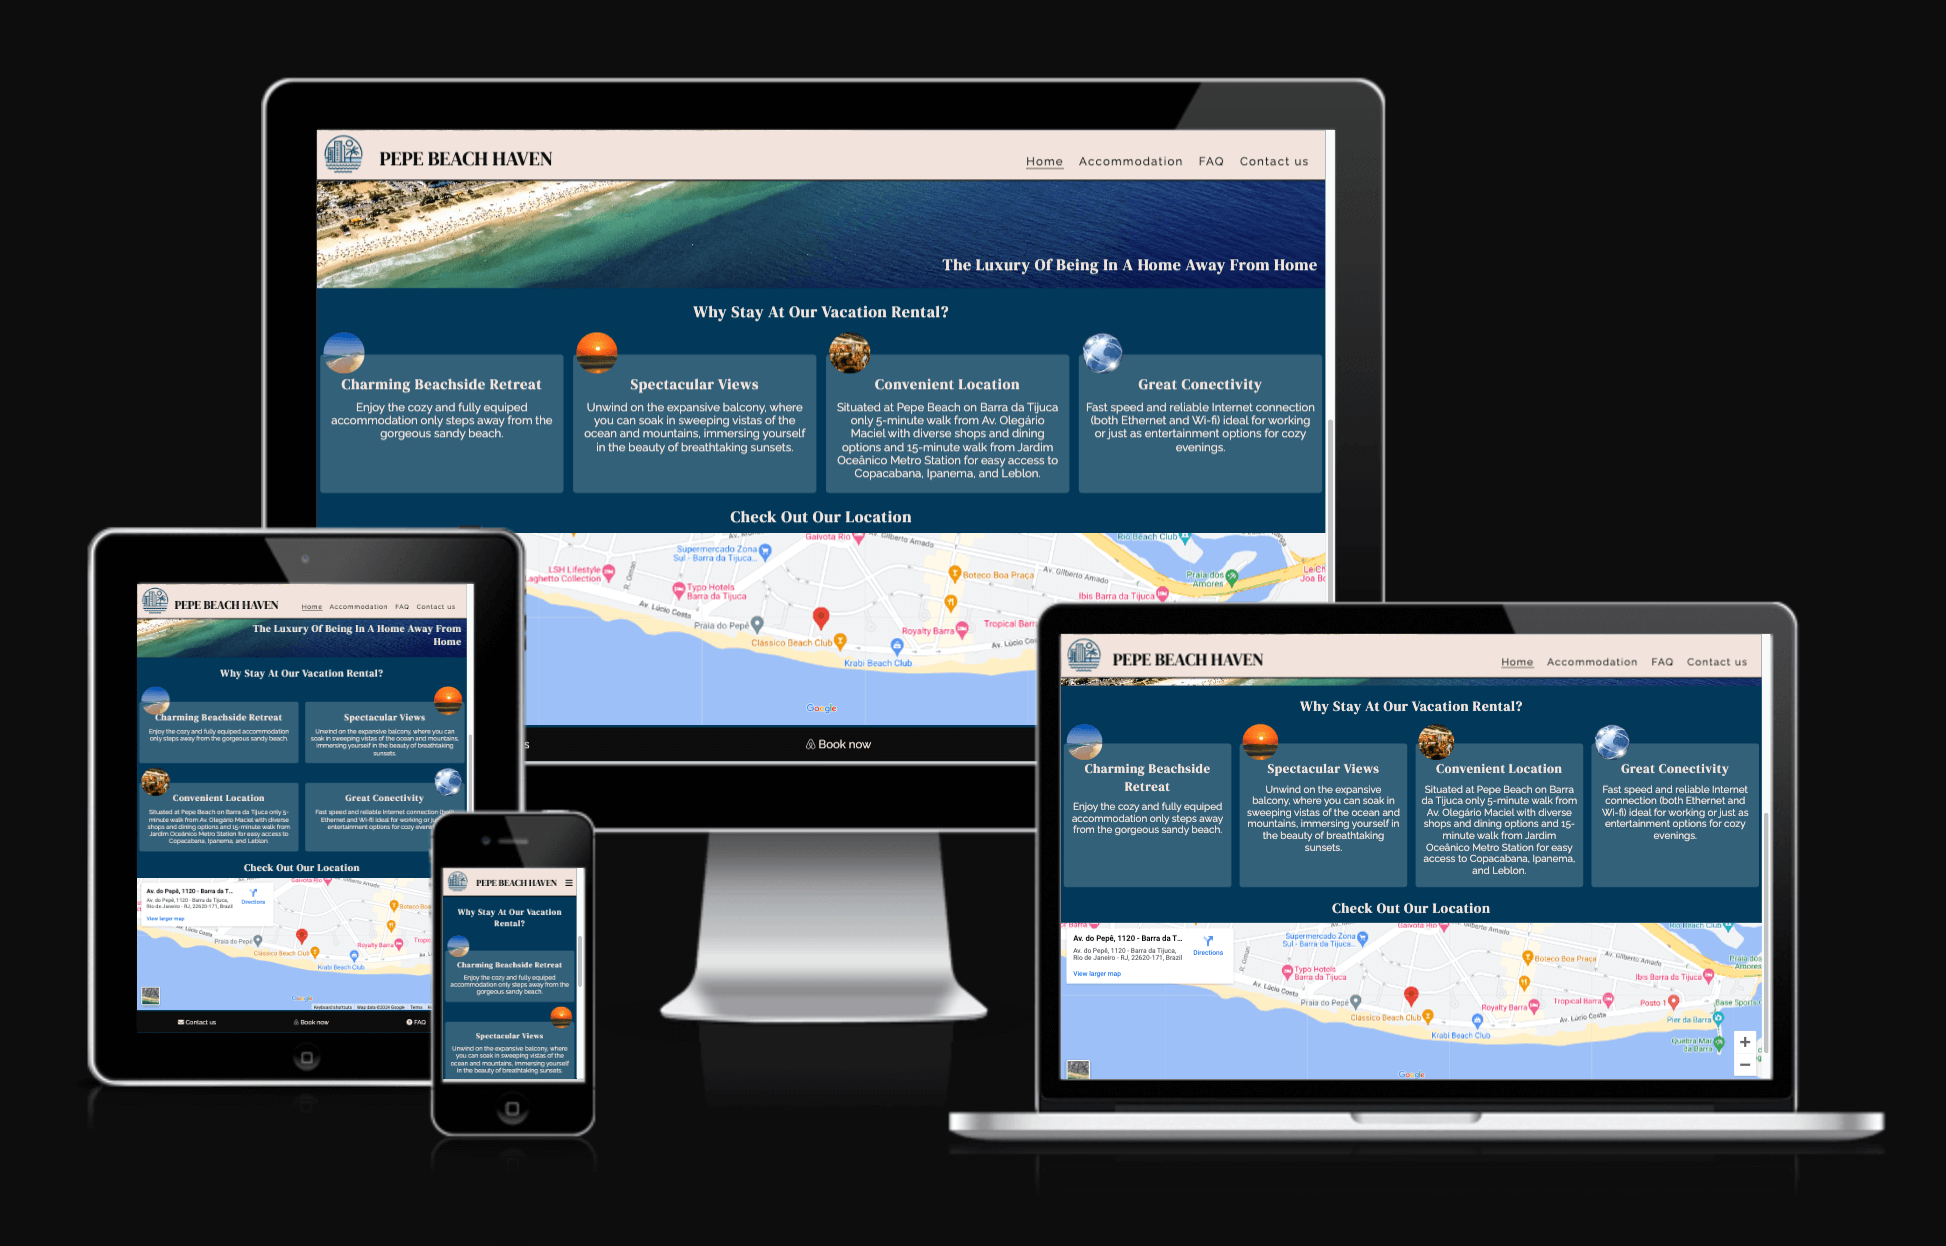
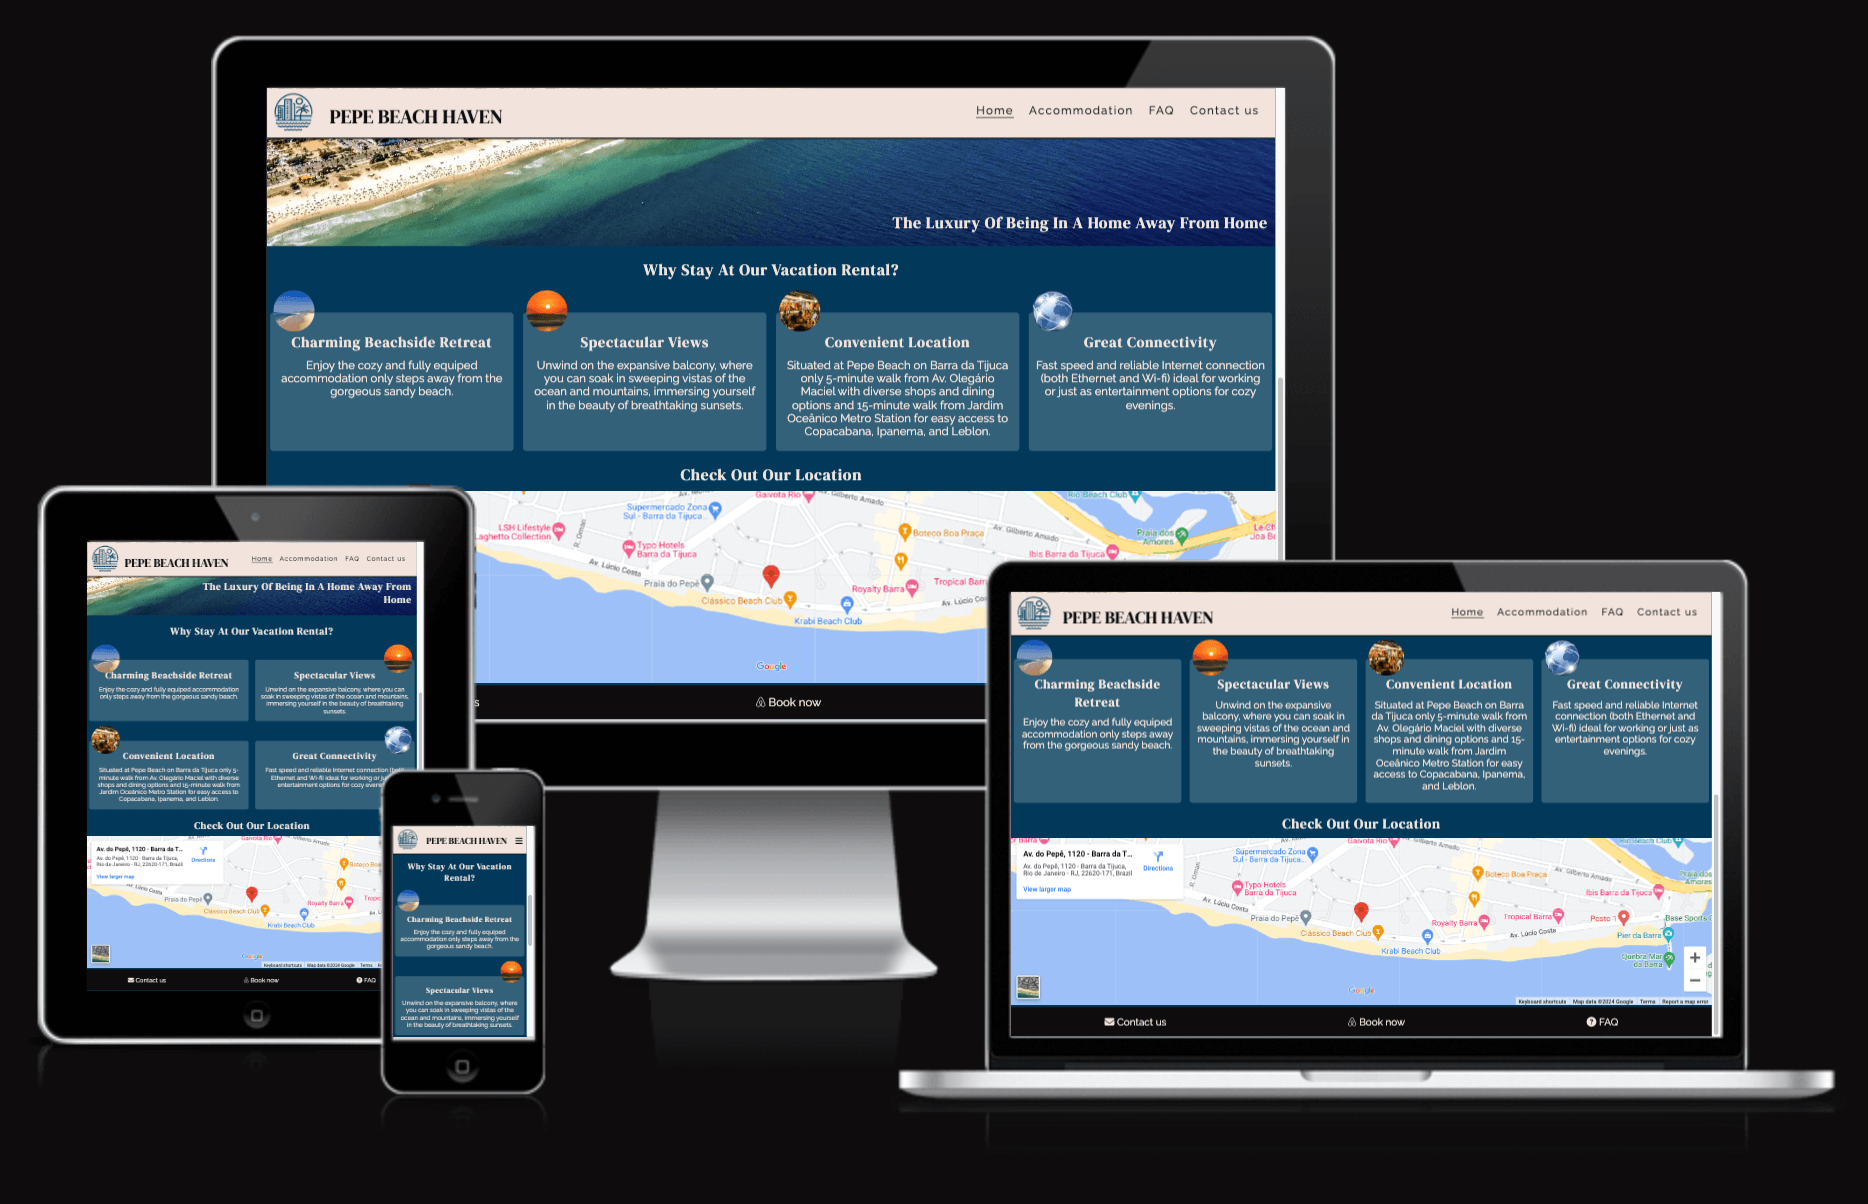
Replace responsiveness photos on Readme and write on the testing section

diff --git a/README.md b/README.md
@@ -101,9 +101,16 @@ The testing in different  browsers and diverse computers and mobile devices of d
 ### The thank you page:
 ![Responsive thank you](documentation/am-i-responsive-thankyou.png)
 
-You should also mention in this section any interesting bugs or problems you discovered during your testing, even if you haven't addressed them yet.
+### Fixed bugs
+During the test phase a few bugs were detected and corrected accordingly:
+1. The logo and the logo text wouldn't align nicely, so after trying numerous approaches the problem was fixed by using `position: relative;` and definig the distance to the bottom `bottom: 16px;` for the logo's text;
+2. The nav toggle showed the same missalignment and the same approach was used to fix it;
+3. The mountain of the landing photo would be cropped on very large screens (1600px) and it didn't look as good. To fix the problem a media query was created for very large screens with a rule with a larger the height for the image;
+4. The background color of the containers on the reasons section as well as the container that groups the photos on the accommodation page and the container of the form on contact and the message on the "thank you" pages didn't offer enough contrast making the text difficult to read. To fix this issue, the transparency was reduced and it created more contrast while still adding a nice look on the pages;
+5. The embedded Google Maps would not cover the width of the page. The fix for the problem was to set a ` width: 100%;` on a css rule for the iframe element;
+6. The photos on the accommodation page were not displaying nicely when looked on larger screens. To remediate the situation, the order of the room's photos was changed using the css "order" property.
 
-If this section grows too long, you may want to split it off into a separate file and link to it from here.
+
 
 
 ### Validator Testing 
